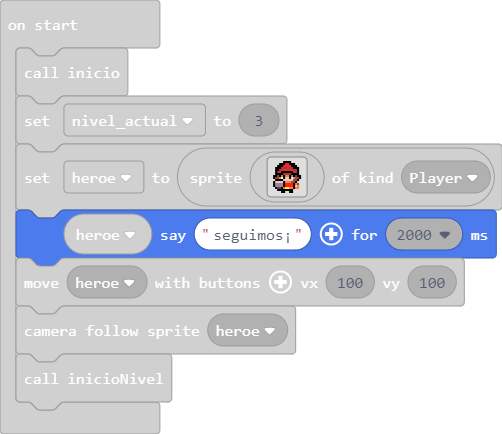
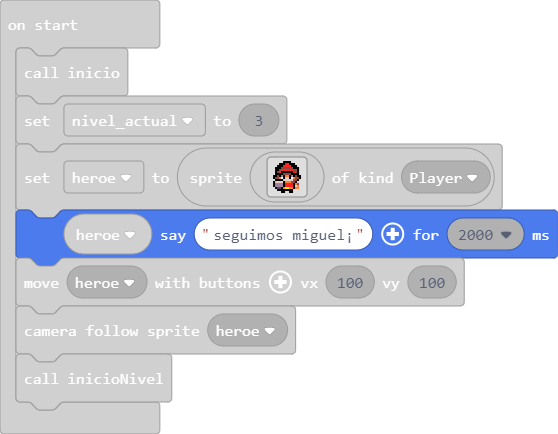
Update main.blocks, main.ts

diff --git a/main.ts b/main.ts
@@ -1488,7 +1488,7 @@ heroe = sprites.create(img`
 . . . f f f f f f f f . . . . . 
 . . . . . f f . . f f . . . . . 
 `, SpriteKind.Player)
-heroe.say("seguimos¡")
+heroe.say("seguimos miguel¡")
 controller.moveSprite(heroe)
 scene.cameraFollowSprite(heroe)
 inicioNivel()
